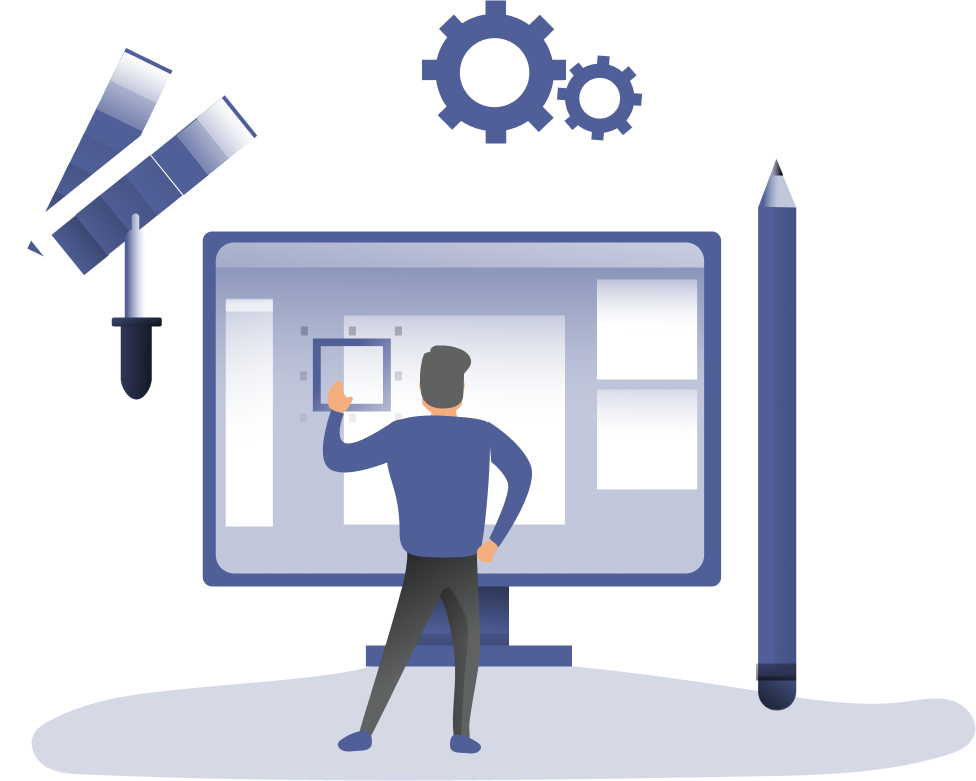
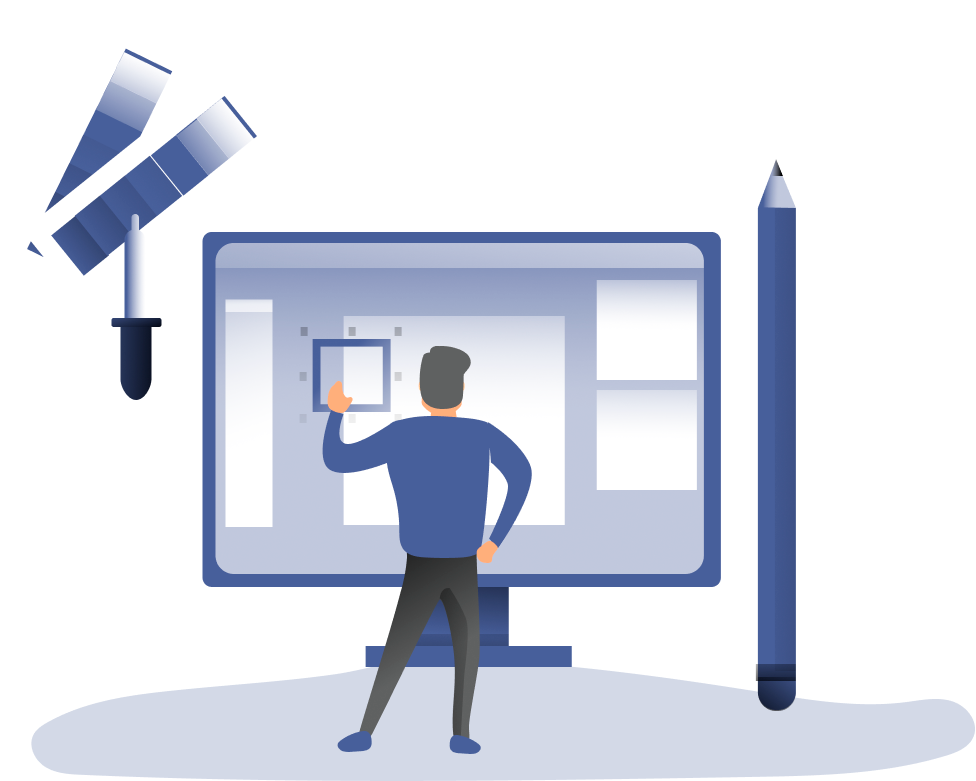
added animacia

Changed region(s): [[0.4303, 0.0, 0.6762, 0.1844]]

diff --git a/src/scss/home.scss b/src/scss/home.scss
@@ -12,33 +12,113 @@
 .list {
 	display: flex;
 	align-items: center;
-	justify-content: center;
-	max-width: 700px;
-	min-height: 1050px;
-
+	justify-content: space-between;
+	height: 1050px;
+	max-width: 1500px;
+	@media (max-width: 1500px) {
+		display: block;
+	}
 	// .list__column
 
 	&__column {
+		@media (max-width: 1500px) {
+			margin: 90px 0px 0px 0px;
+		}
 	}
 
-	// .list__bagraund
+	// .list__img
 
-	&__bagraund {
-		position: fixed;
-		top: -48px;
-		right: -313px;
+	&__img {
+		position: relative;
+		.bagraund {
+			position: fixed;
+			top: -48px;
+			right: -313px;
+			z-index: -1;
+		}
+		.img {
+			flex: 1 1 975px;
+			@media (max-width: 1500px) {
+				max-width: 700px;
+				width: 100%;
+				gap: 25px;
+				@include adaptiveValue("gap", 25, 15);
+			}
+		}
 
-		z-index: -1;
-		img {
-			max-width: 1490px;
+		.gear-wheel_big {
+			position: absolute;
+			top: 0;
+			right: 44%;
+			animation: gear-wheel_big 180s linear infinite both;
+			@media (max-width: 1500px) {
+				right: 13%;
+				top: 150px;
+			}
+			@media (max-width: $tablet) {
+				display: none;
+			}
 		}
-		@media (max-width: $tablet) {
+		@-webkit-keyframes gear-wheel_big {
+			0% {
+				-webkit-transform: rotate(0);
+				transform: rotate(0);
+			}
+			100% {
+				-webkit-transform: rotate(360deg);
+				transform: rotate(360deg);
+			}
 		}
-		@media (max-width: 1440px) {
+		@keyframes rotate-center {
+			0% {
+				-webkit-transform: rotate(0);
+				transform: rotate(0);
+			}
+			100% {
+				-webkit-transform: rotate(360deg);
+				transform: rotate(360deg);
+			}
+		}
+
+		.gear-wheel_small {
+			position: absolute;
+			top: 50px;
+			right: 36%;
+			animation: gear-wheel_small 75s linear infinite reverse both;
+			@media (max-width: 1500px) {
+				right: 14%;
+				top: 300px;
+			}
+			@media (max-width: $tablet) {
+				display: none;
+			}
+		}
+		@-webkit-keyframes gear-wheel_small {
+			0% {
+				-webkit-transform: rotate(0);
+				transform: rotate(0);
+			}
+			100% {
+				-webkit-transform: rotate(360deg);
+				transform: rotate(360deg);
+			}
+		}
+		@keyframes rotate-center {
+			0% {
+				-webkit-transform: rotate(0);
+				transform: rotate(0);
+			}
+			100% {
+				-webkit-transform: rotate(360deg);
+				transform: rotate(360deg);
+			}
 		}
 	}
 }
+
 .column-list {
+	flex: 1 0 650px;
+
 	// .column-list__title
 
 	&__title {
@@ -47,8 +127,9 @@
 		color: #091133;
 		line-height: math.div(66, 50);
 		font-weight: 500;
-		@media (max-width: $mobileSmall) {
-			font-size: rem(35);
+		@include adaptiveValue("font-size", 50, 20);
+		@media (max-width: 1500px) {
+			max-width: 675px;
 		}
 	}
 
@@ -61,6 +142,9 @@
 		color: #505f98;
 		p {
 			padding: 5px 0;
+		}
+		@media (max-width: 1400px) {
+			max-width: 1500px;
 		}
 	}
 

diff --git a/src/scss/header.scss b/src/scss/header.scss
@@ -79,6 +79,7 @@
 		@include adaptiveValue("column-gap", 35, 20);
 		flex-wrap: wrap;
 		flex: 1 1 auto;
+
 		@media (max-width: $mobile) {
 			position: fixed;
 			width: 150px;
@@ -131,17 +132,18 @@
 	max-width: 600px;
 	width: 100%;
 	margin: 0px 50px 0px 0px;
-
+	background: #fff;
 	border-top-right-radius: 15px;
 	border-bottom-right-radius: 15px;
 	&::before {
 		content: "";
 		position: fixed;
-
+		background: #fff;
 		top: 0px;
+		left: 0;
 		height: 60px;
 		z-index: -1;
-		width: 610px;
+		width: 600px;
 		border-bottom-right-radius: 15px;
 		border-top-right-radius: 15px;
 	}

diff --git a/src/home.html b/src/home.html
@@ -31,8 +31,11 @@
 							</div>
 						</div>
 
-						<div class=" list__bagraund">
-									<img src="@img/bgraund.png" alt="">
+						<div class=" list__img">
+									<img class="gear-wheel_big" src="@img/powerful/gear-wheel_big.png" alt="">
+									<img class="gear-wheel_small" src="@img/powerful/gear-wheel_small.png" alt="">
+									<img class="bagraund" src="@img/bgraund.png" alt="">
+									<img class="img" src="@img/fast.png" alt="">
 							</div>
 
 

diff --git a/src/scss/ui.scss b/src/scss/ui.scss
@@ -4,6 +4,7 @@
 	// font-size: math.div(36, 22); test
 	color: #091133;
 	font-size: rem(36);
+	@include adaptiveValue("font-size", 36, 20);
 	// размер отступа зависит от размера шрифта?
 	margin-bottom: rem(16);
 }
